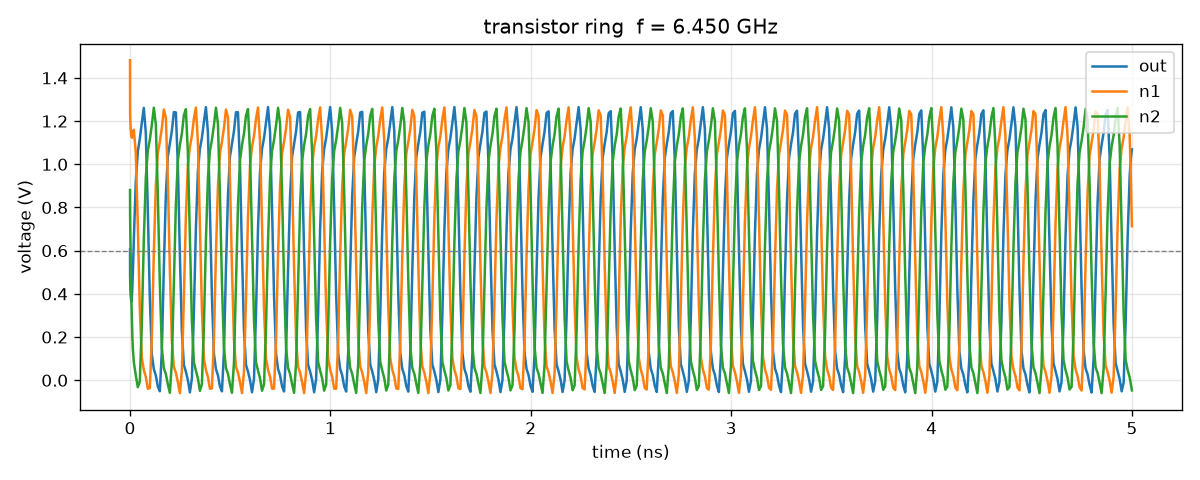
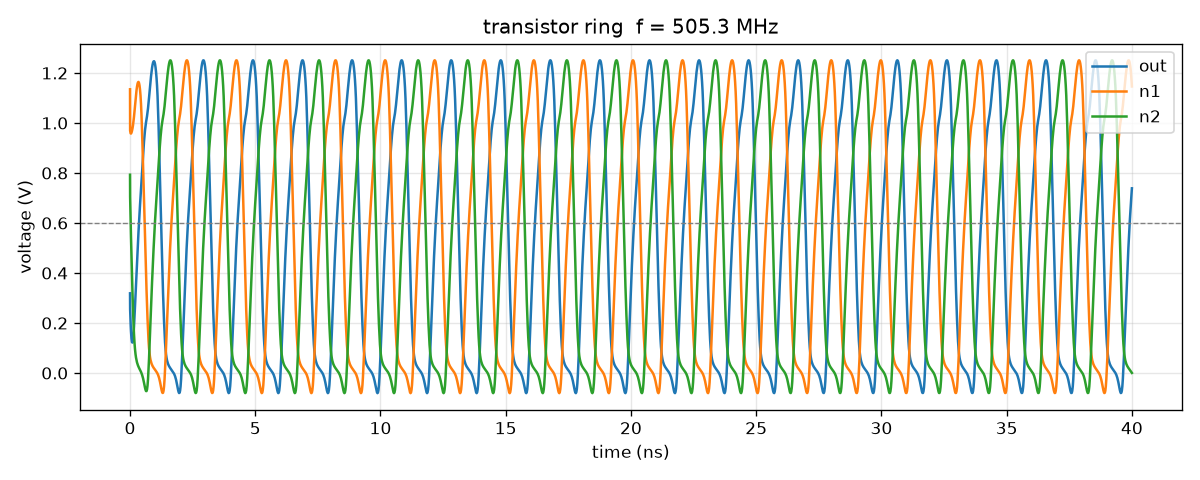
feat: 500MHz ring oscillator

diff --git a/analog/transistor_ring_oscillator/sim/extract_freq.py b/analog/transistor_ring_oscillator/sim/extract_freq.py
@@ -13,6 +13,7 @@ OUT_DIR = SIM_DIR / "out"
 DAT_PATH = OUT_DIR / "ring.dat"
 PNG_PATH = OUT_DIR / "waveform.png"
 FREQ_PATH = OUT_DIR / "freq.txt"
+PLOT = "--no-plot" not in sys.argv
 
 STARTUP_S = 0.5e-9
 MIDRAIL_V = 0.6
@@ -76,30 +77,32 @@ def main() -> int:
         encoding="utf-8",
     )
 
-    import matplotlib
-
-    matplotlib.use("Agg")
-    import matplotlib.pyplot as plt
-
-    fig, ax = plt.subplots(figsize=(10, 4))
-    ax.plot(t * 1e9, v_out, label="out")
-    ax.plot(t * 1e9, v_n1, label="n1")
-    ax.plot(t * 1e9, v_n2, label="n2")
-    ax.axhline(MIDRAIL_V, color="gray", linestyle="--", linewidth=0.8)
-    ax.set_xlabel("time (ns)")
-    ax.set_ylabel("voltage (V)")
-    ax.set_title(f"transistor ring  f = {freq_hz / 1e9:.3f} GHz")
-    ax.legend(loc="upper right")
-    ax.grid(True, alpha=0.3)
-    fig.tight_layout()
-    fig.savefig(PNG_PATH, dpi=120)
-    plt.close(fig)
-
     print(f"period_s={period_s:.6e}")
-    print(f"freq_hz={freq_hz:.6e} ({freq_hz / 1e9:.3f} GHz)")
+    mhz = freq_hz / 1e6
+    print(f"freq_hz={freq_hz:.6e} ({mhz:.1f} MHz)")
     print(f"n_cycles={n_cycles}")
     print(f"wrote {FREQ_PATH}")
-    print(f"wrote {PNG_PATH}")
+
+    if PLOT:
+        import matplotlib
+
+        matplotlib.use("Agg")
+        import matplotlib.pyplot as plt
+
+        fig, ax = plt.subplots(figsize=(10, 4))
+        ax.plot(t * 1e9, v_out, label="out")
+        ax.plot(t * 1e9, v_n1, label="n1")
+        ax.plot(t * 1e9, v_n2, label="n2")
+        ax.axhline(MIDRAIL_V, color="gray", linestyle="--", linewidth=0.8)
+        ax.set_xlabel("time (ns)")
+        ax.set_ylabel("voltage (V)")
+        ax.set_title(f"transistor ring  f = {mhz:.1f} MHz")
+        ax.legend(loc="upper right")
+        ax.grid(True, alpha=0.3)
+        fig.tight_layout()
+        fig.savefig(PNG_PATH, dpi=120)
+        plt.close(fig)
+        print(f"wrote {PNG_PATH}")
     return 0
 
 
